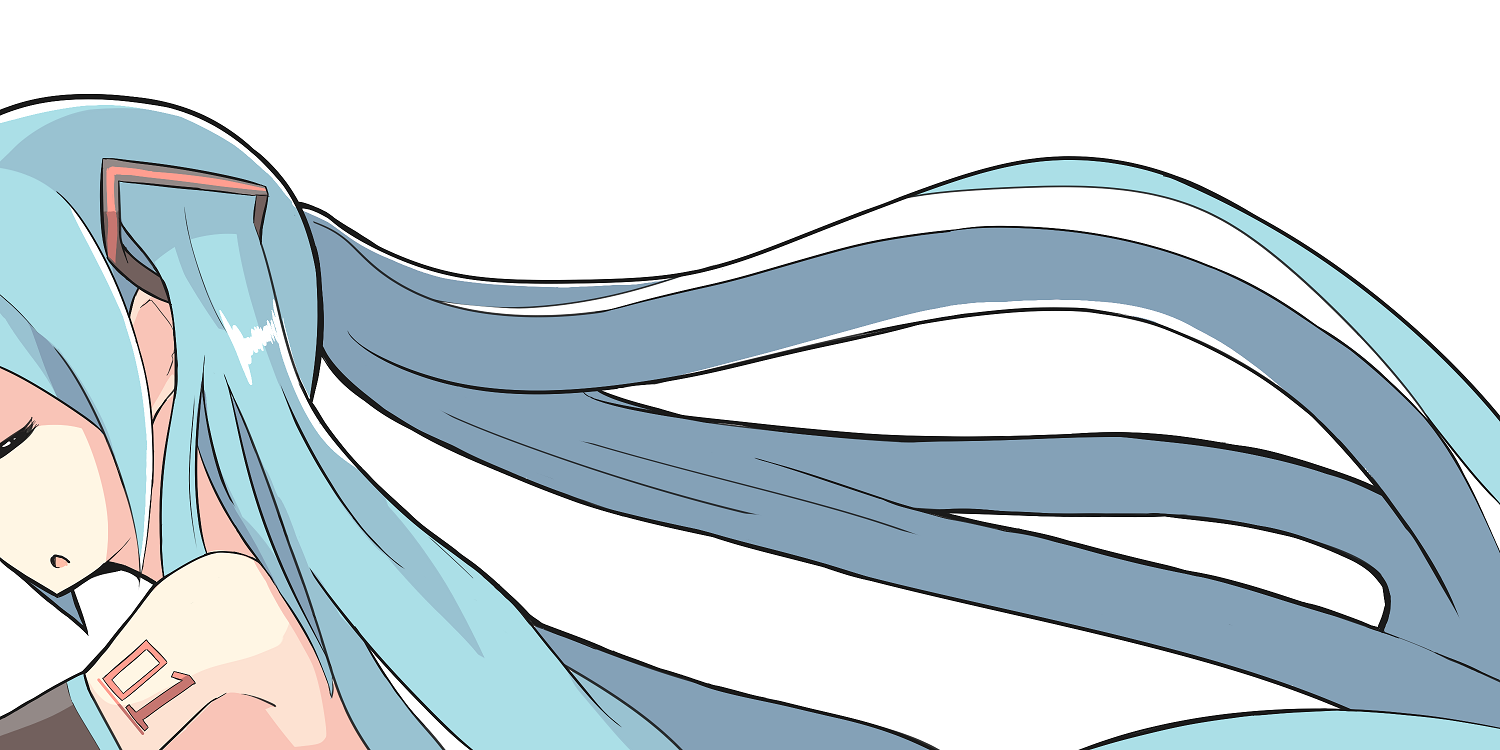
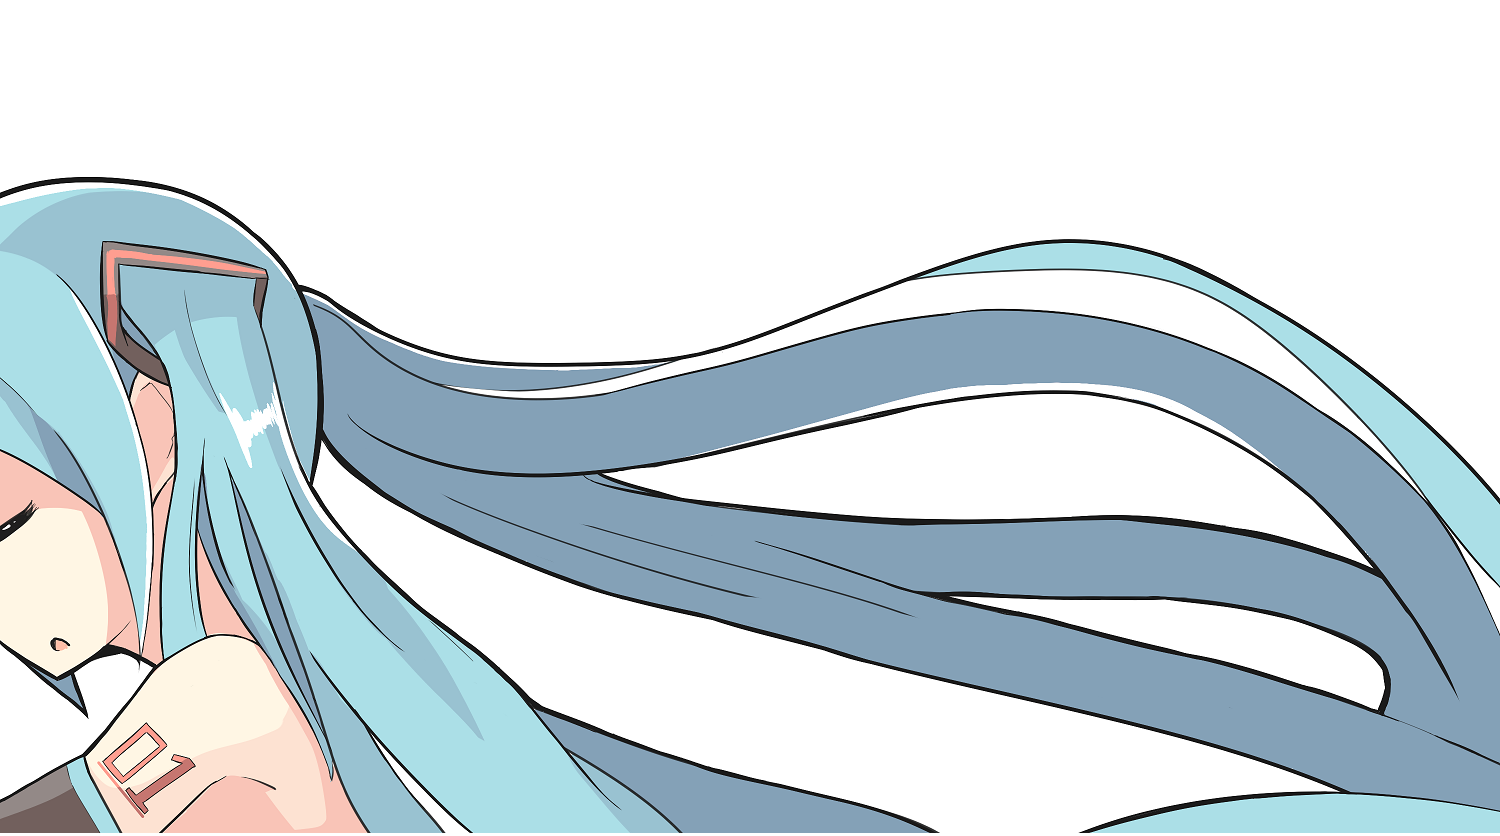
画像リサイズ

diff --git a/index.html b/index.html
@@ -30,6 +30,7 @@
 	  ga('create', 'UA-56837768-1', 'auto');
 	  ga('send', 'pageview');
 
+
 </script>
 </head>
 <body>
@@ -73,7 +74,8 @@
                       <img src="./img/music.png">
                       <div class="caption">
                         <h3>作曲</h3>
-                        <p>不定期にギター演奏動画あげてます．気に入った曲を弾いていっています．</p>
+                        <p>不定期にギター演奏動画あげてます．</p>
+                        <p>気に入った曲を弾いていっています．</p>
                         <p>作曲に関してはSoundCloudに</p>
                         <p>
                             <a href="http://www.nicovideo.jp/mylist/36152281" class="btn" role="button" target="_blank">ニコニコ動画</a>
@@ -91,7 +93,8 @@
                         <h3>プログラミング</h3>
 
                         <p>Web系が多めです．</p>
-                        <p>普段使うようなやつ→HTML/CSS/JavaScript/Ruby/Java</p>
+                        <p>普段使うようなやつ</p>
+                        <p>HTML/CSS/JavaScript/Ruby/Java</p>
                         <p><a href="./html/program.html" class="btn" role="button">詳しくはコチラ</a></p>
                       </div>
                 </div>
